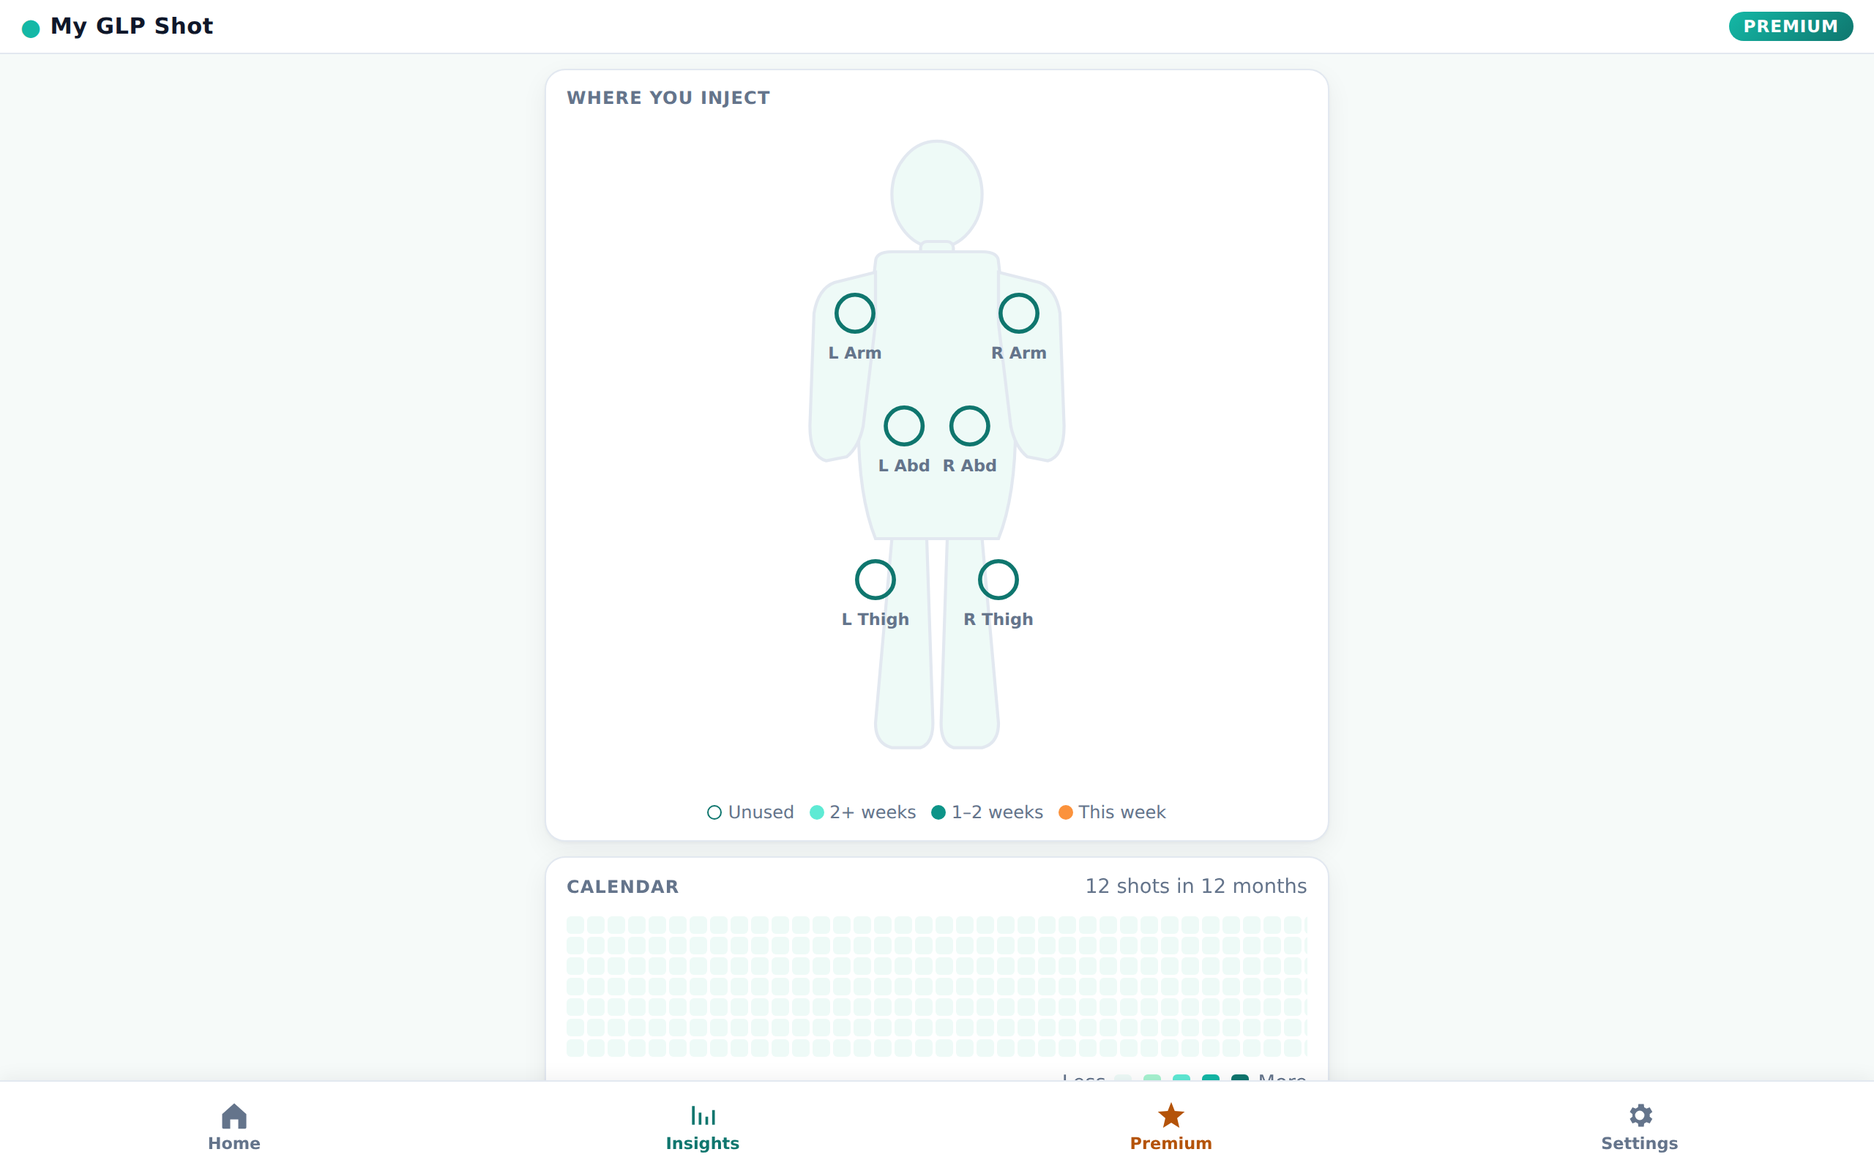
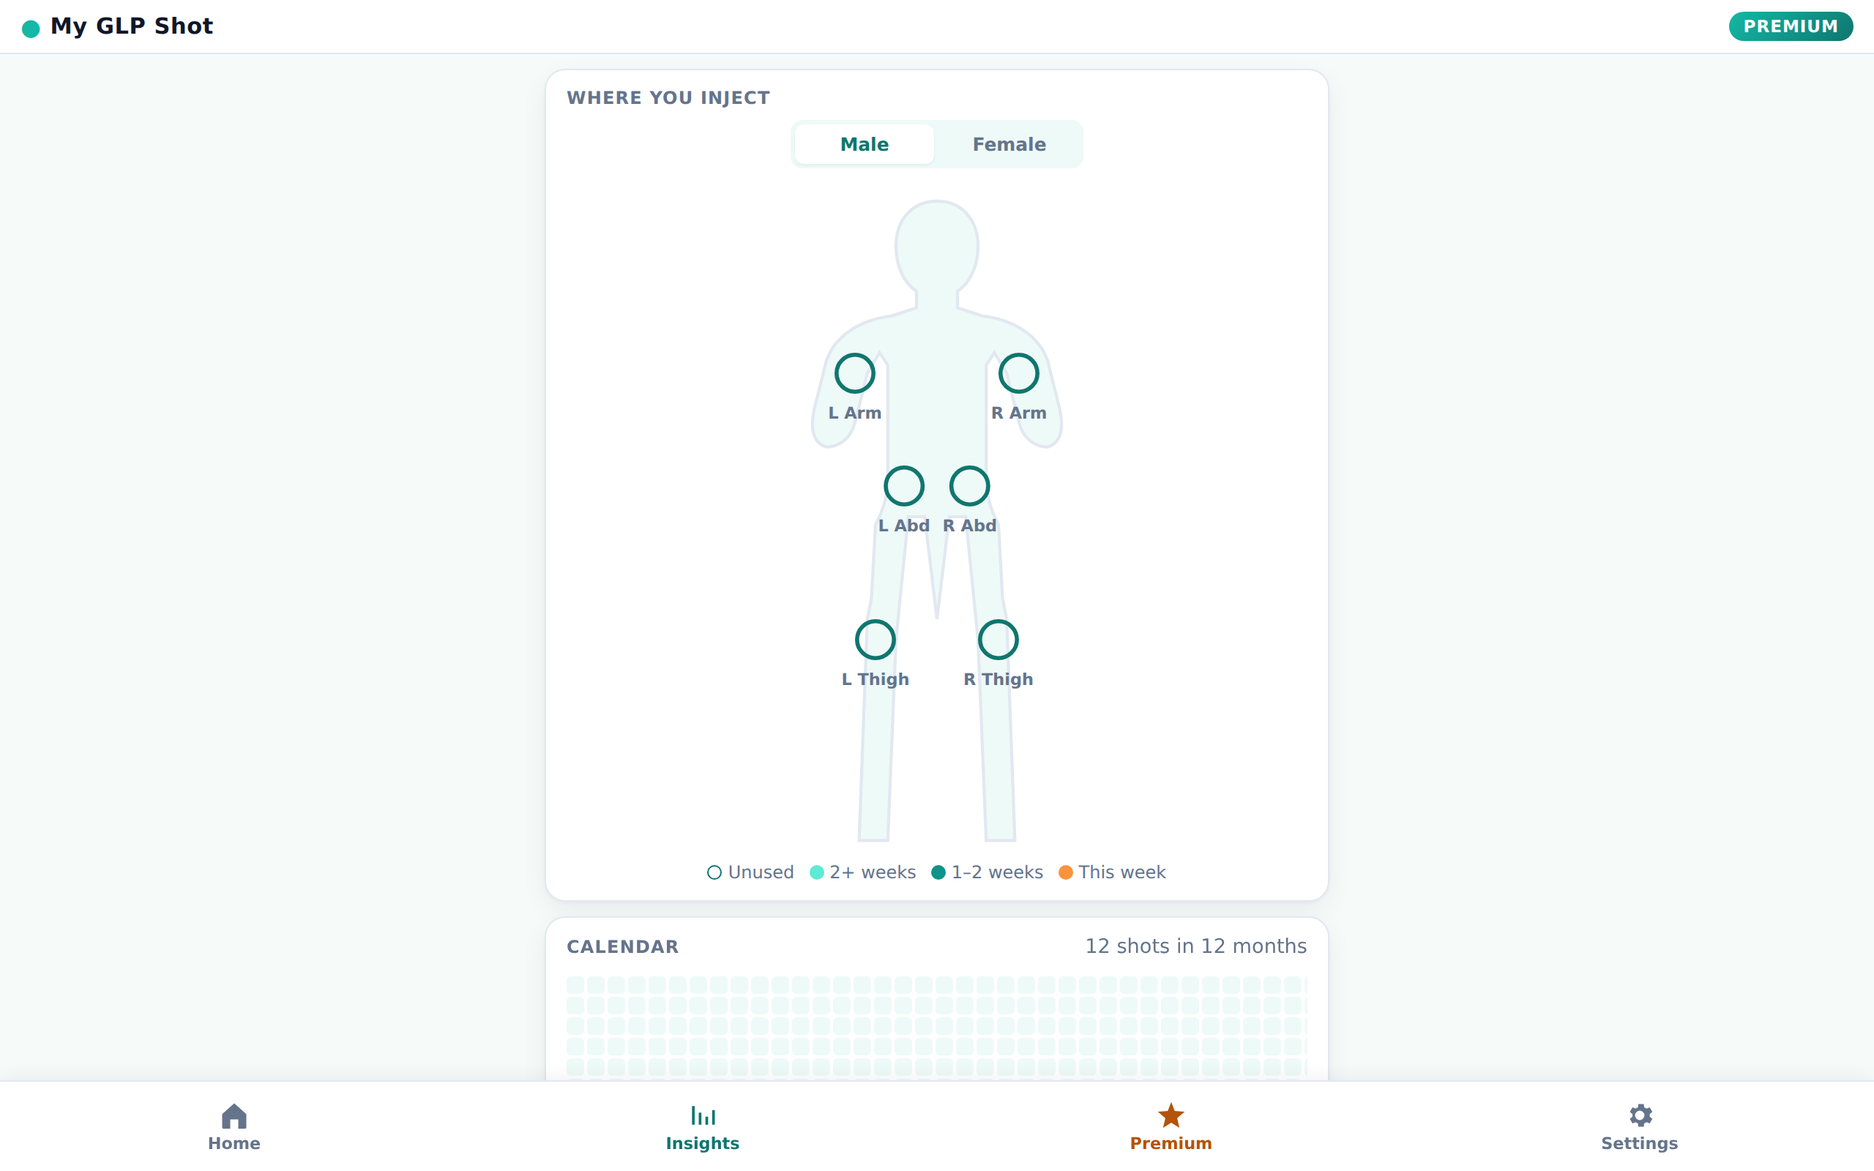
v0.32.0: anatomical male/female body silhouettes + sex toggle on Insights
Replaces the cartoon body outline with two proportioned silhouettes
(male: broad shoulders ~80wide, slim hips, straight legs; female: narrow
shoulders ~64wide, defined waist, wider hips ~76wide, curved legs). Adds
a Male/Female segmented toggle above the diagram on the Insights tab,
persisted via settings.bodySex (defaults to 'male'). All six existing
SITE_POSITIONS dots remain unchanged and verified to land on the body
in both renders. Bumps APP_VERSION + sw.js cache + asset ?v= tags.

diff --git a/web/app/app.js b/web/app/app.js
@@ -6,7 +6,7 @@
 const DB_NAME = 'shotclock';
 // v5 bump: 'expenses' store added so the Spending card can take ad-hoc cost entries (copays, pharmacy fees, etc.) without needing a supply row.
 const DB_VERSION = 5;
-const APP_VERSION = '0.31.0';
+const APP_VERSION = '0.32.0';
 
 // Umami event tracker. Aggregates only — no PII (no email, no IDs). Safe to call before umami loads.
 function track(event, props) {
@@ -18,29 +18,31 @@ function track(event, props) {
 }
 const STORES = { shots: 'shots', weights: 'weights', settings: 'settings', moods: 'moods', supplies: 'supplies' };
 
-// 20 color themes — primary + dark + light + gradient. Applied by overriding CSS custom properties on documentElement.
-// Default 'teal' uses the existing palette.
+// 20 color themes. Each defines a light-mode and dark-mode variant so the app stays readable in both.
+// Tokens overridden: --bronze (primary), --bronze-dk (darker primary, used for hover/active text), --bronze-lt (subtle tint background), --grad (hero/countdown gradient).
+// Light mode: primary mid-saturation, dark = darker primary, tint = very pale primary.
+// Dark mode: primary slightly lighter (for contrast on dark bg), dark = even lighter (used as link/highlighted text on dark surfaces), tint = deep dark version of the hue.
 const THEMES = [
-  { id: 'teal',        name: 'Teal',         primary: '#14b8a6', dark: '#0f766e', light: '#ccfbf1', grad2: '#0d9488' },
-  { id: 'bronze',      name: 'Bronze',       primary: '#c7915b', dark: '#83542e', light: '#f5ebe3', grad2: '#a16d3a' },
-  { id: 'purple',      name: 'Royal Purple', primary: '#8b5cf6', dark: '#6d28d9', light: '#ede9fe', grad2: '#7c3aed' },
-  { id: 'pink',        name: 'Hot Pink',     primary: '#ec4899', dark: '#be185d', light: '#fce7f3', grad2: '#db2777' },
-  { id: 'coral',       name: 'Coral',        primary: '#fb7185', dark: '#be123c', light: '#ffe4e6', grad2: '#e11d48' },
-  { id: 'forest',      name: 'Forest',       primary: '#22c55e', dark: '#15803d', light: '#dcfce7', grad2: '#16a34a' },
-  { id: 'sky',         name: 'Sky Blue',     primary: '#0ea5e9', dark: '#0369a1', light: '#e0f2fe', grad2: '#0284c7' },
-  { id: 'lavender',    name: 'Lavender',     primary: '#a78bfa', dark: '#7c3aed', light: '#f3e8ff', grad2: '#9333ea' },
-  { id: 'sunset',      name: 'Sunset',       primary: '#f97316', dark: '#c2410c', light: '#ffedd5', grad2: '#ea580c' },
-  { id: 'cherry',      name: 'Cherry Red',   primary: '#dc2626', dark: '#991b1b', light: '#fee2e2', grad2: '#b91c1c' },
-  { id: 'mint',        name: 'Mint',         primary: '#34d399', dark: '#047857', light: '#d1fae5', grad2: '#10b981' },
-  { id: 'indigo',      name: 'Indigo',       primary: '#6366f1', dark: '#3730a3', light: '#e0e7ff', grad2: '#4f46e5' },
-  { id: 'rose',        name: 'Rose Gold',    primary: '#f43f5e', dark: '#9f1239', light: '#ffe4e6', grad2: '#e11d48' },
-  { id: 'slate',       name: 'Slate',        primary: '#64748b', dark: '#334155', light: '#f1f5f9', grad2: '#475569' },
-  { id: 'emerald',     name: 'Emerald',      primary: '#10b981', dark: '#065f46', light: '#d1fae5', grad2: '#059669' },
-  { id: 'plum',        name: 'Plum',         primary: '#a855f7', dark: '#6b21a8', light: '#f3e8ff', grad2: '#9333ea' },
-  { id: 'sand',        name: 'Sand',         primary: '#d97706', dark: '#78350f', light: '#fef3c7', grad2: '#b45309' },
-  { id: 'ocean',       name: 'Ocean',        primary: '#2563eb', dark: '#1e3a8a', light: '#dbeafe', grad2: '#1d4ed8' },
-  { id: 'terracotta',  name: 'Terracotta',   primary: '#b45309', dark: '#78350f', light: '#fef3c7', grad2: '#92400e' },
-  { id: 'charcoal',    name: 'Charcoal',     primary: '#374151', dark: '#111827', light: '#f3f4f6', grad2: '#1f2937' },
+  { id: 'teal',        name: 'Teal',         light: { primary: '#14b8a6', dark: '#0f766e', tint: '#ccfbf1', grad2: '#0d9488' }, dark: { primary: '#2dd4bf', dark: '#5eead4', tint: '#134e4a', grad2: '#0d9488' } },
+  { id: 'bronze',      name: 'Bronze',       light: { primary: '#c7915b', dark: '#83542e', tint: '#f5ebe3', grad2: '#a16d3a' }, dark: { primary: '#d4a574', dark: '#e7c8a0', tint: '#3d2a18', grad2: '#a16d3a' } },
+  { id: 'purple',      name: 'Royal Purple', light: { primary: '#8b5cf6', dark: '#6d28d9', tint: '#ede9fe', grad2: '#7c3aed' }, dark: { primary: '#a78bfa', dark: '#c4b5fd', tint: '#2e1065', grad2: '#7c3aed' } },
+  { id: 'pink',        name: 'Hot Pink',     light: { primary: '#ec4899', dark: '#be185d', tint: '#fce7f3', grad2: '#db2777' }, dark: { primary: '#f472b6', dark: '#fbcfe8', tint: '#500724', grad2: '#db2777' } },
+  { id: 'coral',       name: 'Coral',        light: { primary: '#fb7185', dark: '#be123c', tint: '#ffe4e6', grad2: '#e11d48' }, dark: { primary: '#fda4af', dark: '#fecdd3', tint: '#4c0519', grad2: '#e11d48' } },
+  { id: 'forest',      name: 'Forest',       light: { primary: '#22c55e', dark: '#15803d', tint: '#dcfce7', grad2: '#16a34a' }, dark: { primary: '#4ade80', dark: '#86efac', tint: '#14532d', grad2: '#16a34a' } },
+  { id: 'sky',         name: 'Sky Blue',     light: { primary: '#0ea5e9', dark: '#0369a1', tint: '#e0f2fe', grad2: '#0284c7' }, dark: { primary: '#38bdf8', dark: '#7dd3fc', tint: '#0c4a6e', grad2: '#0284c7' } },
+  { id: 'lavender',    name: 'Lavender',     light: { primary: '#a78bfa', dark: '#7c3aed', tint: '#f3e8ff', grad2: '#9333ea' }, dark: { primary: '#c4b5fd', dark: '#ddd6fe', tint: '#3b0764', grad2: '#9333ea' } },
+  { id: 'sunset',      name: 'Sunset',       light: { primary: '#f97316', dark: '#c2410c', tint: '#ffedd5', grad2: '#ea580c' }, dark: { primary: '#fb923c', dark: '#fdba74', tint: '#431407', grad2: '#ea580c' } },
+  { id: 'cherry',      name: 'Cherry Red',   light: { primary: '#dc2626', dark: '#991b1b', tint: '#fee2e2', grad2: '#b91c1c' }, dark: { primary: '#ef4444', dark: '#fca5a5', tint: '#450a0a', grad2: '#b91c1c' } },
+  { id: 'mint',        name: 'Mint',         light: { primary: '#34d399', dark: '#047857', tint: '#d1fae5', grad2: '#10b981' }, dark: { primary: '#6ee7b7', dark: '#a7f3d0', tint: '#022c22', grad2: '#10b981' } },
+  { id: 'indigo',      name: 'Indigo',       light: { primary: '#6366f1', dark: '#3730a3', tint: '#e0e7ff', grad2: '#4f46e5' }, dark: { primary: '#818cf8', dark: '#a5b4fc', tint: '#1e1b4b', grad2: '#4f46e5' } },
+  { id: 'rose',        name: 'Rose Gold',    light: { primary: '#f43f5e', dark: '#9f1239', tint: '#ffe4e6', grad2: '#e11d48' }, dark: { primary: '#fb7185', dark: '#fda4af', tint: '#4c0519', grad2: '#e11d48' } },
+  { id: 'slate',       name: 'Slate',        light: { primary: '#64748b', dark: '#334155', tint: '#f1f5f9', grad2: '#475569' }, dark: { primary: '#94a3b8', dark: '#cbd5e1', tint: '#0f172a', grad2: '#475569' } },
+  { id: 'emerald',     name: 'Emerald',      light: { primary: '#10b981', dark: '#065f46', tint: '#d1fae5', grad2: '#059669' }, dark: { primary: '#34d399', dark: '#6ee7b7', tint: '#022c22', grad2: '#059669' } },
+  { id: 'plum',        name: 'Plum',         light: { primary: '#a855f7', dark: '#6b21a8', tint: '#f3e8ff', grad2: '#9333ea' }, dark: { primary: '#c084fc', dark: '#d8b4fe', tint: '#3b0764', grad2: '#9333ea' } },
+  { id: 'sand',        name: 'Sand',         light: { primary: '#d97706', dark: '#78350f', tint: '#fef3c7', grad2: '#b45309' }, dark: { primary: '#f59e0b', dark: '#fcd34d', tint: '#451a03', grad2: '#b45309' } },
+  { id: 'ocean',       name: 'Ocean',        light: { primary: '#2563eb', dark: '#1e3a8a', tint: '#dbeafe', grad2: '#1d4ed8' }, dark: { primary: '#60a5fa', dark: '#93c5fd', tint: '#1e3a8a', grad2: '#1d4ed8' } },
+  { id: 'terracotta',  name: 'Terracotta',   light: { primary: '#b45309', dark: '#78350f', tint: '#fef3c7', grad2: '#92400e' }, dark: { primary: '#d97706', dark: '#fbbf24', tint: '#451a03', grad2: '#92400e' } },
+  { id: 'charcoal',    name: 'Charcoal',     light: { primary: '#374151', dark: '#111827', tint: '#f3f4f6', grad2: '#1f2937' }, dark: { primary: '#9ca3af', dark: '#d1d5db', tint: '#030712', grad2: '#1f2937' } },
 ];
 
 // 10 mood emoji style sets (5 mood levels each: terrible / bad / ok / good / great).
@@ -76,6 +78,7 @@ const DEFAULT_SETTINGS = {
   syncLastUpdatedAt: null,
   syncAutoPush: true,
   syncDirty: false,
+  bodySex: 'male',
 };
 
 const SIDE_EFFECTS = [
@@ -831,6 +834,7 @@ document.addEventListener('DOMContentLoaded', async () => {
   setupLabUI();
   setupExpenseUI();
   setupWeightRangeButtons();
+  setupBodyToggle();
   renderThemeGrid();
   renderEmojiStyleGrid();
   setupShareUI();
@@ -866,11 +870,8 @@ function applyTheme() {
   if (t === 'system') document.documentElement.removeAttribute('data-theme');
   else document.documentElement.setAttribute('data-theme', t);
   try { localStorage.setItem('theme', t); } catch(e){}
-  const meta = document.querySelector('meta[name="theme-color"]');
-  if (meta) {
-    const dark = t === 'dark' || (t === 'system' && window.matchMedia('(prefers-color-scheme: dark)').matches);
-    meta.setAttribute('content', dark ? '#0b1220' : '#0f766e');
-  }
+  // Re-apply the color theme so its tint flips to the right light/dark variant.
+  if (typeof applyColorTheme === 'function') applyColorTheme(settings.colorTheme || 'teal');
 }
 
 async function getLastWeightUnit() {
@@ -919,6 +920,26 @@ function setupWeightRangeButtons() {
       _weightRangeDays = btn.dataset.range === 'all' ? 'all' : btn.dataset.range;
       track('weight_range_changed', { range: _weightRangeDays });
       await renderWeights();
+    });
+  });
+}
+
+function setupBodyToggle() {
+  // Initialize active state from current settings (default 'male' if unset).
+  const current = (settings.bodySex === 'female') ? 'female' : 'male';
+  document.querySelectorAll('.body-toggle-btn').forEach(b => {
+    b.classList.toggle('active', b.dataset.bodySex === current);
+  });
+  document.querySelectorAll('.body-toggle-btn').forEach(btn => {
+    btn.addEventListener('click', async () => {
+      const sex = btn.dataset.bodySex === 'female' ? 'female' : 'male';
+      if (settings.bodySex === sex) return;
+      settings.bodySex = sex;
+      document.querySelectorAll('.body-toggle-btn').forEach(b => b.classList.toggle('active', b === btn));
+      await saveSettings();
+      markSyncDirty();
+      track('body_sex_changed', { sex });
+      await renderShots(); // re-renders the body diagram via renderBodyDiagram(shots)
     });
   });
 }
@@ -1900,49 +1921,16 @@ function renderBodyDiagram(shots) {
     </g>`;
   }).join('');
 
+  // Anatomical front silhouettes — single continuous outline per sex.
+  // Both fit viewBox 200x320 so SITE_POSITIONS dots land on the body.
+  // Male: ~80-wide shoulder line, slim 64-wide hips, straight legs.
+  // Female: ~64-wide shoulders, defined ~50-wide waist near y=150, ~76-wide hips, gently curved legs.
+  const MALE_PATH = "M100,6 C88,6 80,15 80,28 C80,38 84,46 90,50 L90,58 L78,62 C62,64 50,72 46,84 L40,108 C38,118 40,124 46,126 C52,126 58,122 60,114 L66,90 L72,80 L76,86 L76,140 C76,150 74,156 70,164 L68,200 L66,210 L62,318 L76,318 L80,220 L86,160 L94,160 L100,210 L106,160 L114,160 L120,220 L124,318 L138,318 L134,210 L132,200 L130,164 C126,156 124,150 124,140 L124,86 L128,80 L134,90 L140,114 C142,122 148,126 154,126 C160,124 162,118 160,108 L154,84 C150,72 138,64 122,62 L110,58 L110,50 C116,46 120,38 120,28 C120,15 112,6 100,6 Z";
+  const FEMALE_PATH = "M100,6 C88,6 80,15 80,28 C80,38 84,46 90,50 L90,58 L80,62 C72,64 66,68 64,74 C60,82 56,90 56,100 C56,106 60,108 62,106 L66,80 L70,72 L72,74 C74,100 75,130 75,150 C76,170 70,185 64,200 L62,210 C56,240 54,280 56,318 L72,318 L80,230 L88,180 L96,160 L100,160 L104,160 L112,180 L120,230 L128,318 L144,318 C146,280 144,240 138,210 L136,200 C130,185 124,170 125,150 C125,130 126,100 128,74 L130,72 L134,80 L138,106 C140,108 144,106 144,100 C144,90 140,82 136,74 C134,68 128,64 120,62 L110,58 L110,50 C116,46 120,38 120,28 C120,15 112,6 100,6 Z";
+  const bodyPath = settings.bodySex === 'female' ? FEMALE_PATH : MALE_PATH;
   wrap.innerHTML = `
     <svg class="body-svg" viewBox="0 0 200 320" xmlns="http://www.w3.org/2000/svg" aria-label="Body diagram showing injection sites">
-      <!-- Single continuous outline for cleaner anatomical proportions: head, shoulders, arms hanging at sides, narrow waist, hips, legs, feet. -->
-      <path class="body-shape" d="
-        M 100 8
-        C 86 8 76 18 76 32
-        C 76 44 84 54 92 56
-        L 92 60
-        L 70 65
-        C 56 70 48 82 46 94
-        L 38 142
-        C 36 156 38 162 44 164
-        C 50 166 56 162 58 154
-        L 64 110
-        L 68 96
-        L 72 130
-        C 70 158 70 184 76 198
-        L 82 220
-        L 76 282
-        C 74 294 76 304 82 308
-        C 90 310 96 306 96 296
-        L 98 220
-        L 100 220
-        L 102 220
-        L 104 296
-        C 104 306 110 310 118 308
-        C 124 304 126 294 124 282
-        L 118 220
-        L 124 198
-        C 130 184 130 158 128 130
-        L 132 96
-        L 136 110
-        L 142 154
-        C 144 162 150 166 156 164
-        C 162 162 164 156 162 142
-        L 154 94
-        C 152 82 144 70 130 65
-        L 108 60
-        L 108 56
-        C 116 54 124 44 124 32
-        C 124 18 114 8 100 8
-        Z
-      "/>
+      <path class="body-shape" d="${bodyPath}"/>
       ${sites}
     </svg>
   `;
@@ -2886,16 +2874,30 @@ async function renderLabs() {
 }
 
 // ----- App theme + emoji style (premium cosmetic settings) -----
+function isDarkModeActive() {
+  const attr = document.documentElement.getAttribute('data-theme');
+  if (attr === 'dark') return true;
+  if (attr === 'light') return false;
+  // 'system' or unset → use OS preference
+  return window.matchMedia && window.matchMedia('(prefers-color-scheme: dark)').matches;
+}
+
 function applyColorTheme(themeId) {
   const t = THEMES.find(x => x.id === themeId) || THEMES[0];
+  const variant = isDarkModeActive() ? t.dark : t.light;
   const root = document.documentElement;
-  root.style.setProperty('--bronze', t.primary);
-  root.style.setProperty('--bronze-dk', t.dark);
-  root.style.setProperty('--bronze-lt', t.light);
-  root.style.setProperty('--grad', `linear-gradient(135deg, ${t.primary} 0%, ${t.grad2} 100%)`);
-  // Update the iOS theme-color meta so the address bar matches.
+  root.style.setProperty('--bronze', variant.primary);
+  root.style.setProperty('--bronze-dk', variant.dark);
+  root.style.setProperty('--bronze-lt', variant.tint);
+  root.style.setProperty('--grad', `linear-gradient(135deg, ${variant.primary} 0%, ${variant.grad2} 100%)`);
+  // iOS address-bar tint — always use the light-mode dark color so the bar reads as the brand.
   const meta = document.querySelector('meta[name="theme-color"]');
-  if (meta) meta.content = t.dark;
+  if (meta) meta.content = t.light.dark;
+}
+
+// Re-apply theme whenever light/dark mode flips so tints stay correct.
+function reapplyCurrentColorTheme() {
+  applyColorTheme(settings.colorTheme || 'teal');
 }
 
 function applyMoodStyle(styleId) {

diff --git a/web/app/styles.css b/web/app/styles.css
@@ -174,6 +174,12 @@ canvas{width:100% !important;height:auto !important;max-height:200px}
 .range-btn.active{background:var(--surface);color:var(--bronze-dk);box-shadow:0 1px 2px rgba(0,0,0,.06)}
 [data-theme="dark"] .range-btn.active{background:var(--bronze-dk);color:#fff}
 
+/* Body type toggle (Male / Female) above injection-site diagram */
+.body-toggle{display:flex;gap:4px;background:var(--surface-alt);padding:3px;border-radius:8px;margin:6px auto 8px;max-width:200px}
+.body-toggle-btn{flex:1;background:transparent;border:0;color:var(--muted);font:inherit;font-size:.78rem;font-weight:600;padding:6px 0;cursor:pointer;border-radius:6px;transition:background .15s,color .15s}
+.body-toggle-btn.active{background:var(--surface);color:var(--bronze-dk);box-shadow:0 1px 2px rgba(0,0,0,.06)}
+[data-theme="dark"] .body-toggle-btn.active{background:var(--bronze-dk);color:#fff}
+
 .expense-list{list-style:none;padding:0;margin:8px 0 0}
 .expense-list li{padding:10px 12px;border:1px solid var(--line);border-radius:10px;margin:6px 0;cursor:pointer;background:var(--surface)}
 .expense-list li:hover{background:var(--surface-alt)}
@@ -260,13 +266,19 @@ canvas{width:100% !important;height:auto !important;max-height:200px}
 .empty-illus{display:inline-block;font-size:1.4rem;opacity:.5;margin-bottom:4px}
 
 /* Badges */
-.badges-list{display:flex;flex-wrap:wrap;gap:8px}
-.badge{background:var(--surface-alt);border:1px solid var(--line);border-radius:14px;padding:6px 10px;font-size:.78rem;display:flex;align-items:center;gap:6px;animation:badge-pop .4s ease-out}
-.badge.unlocked{background:linear-gradient(135deg,var(--bronze-lt),var(--surface));border-color:var(--bronze)}
-.badge .badge-icon{font-size:1rem}
-.badge .badge-label{color:var(--ink);font-weight:600}
-.badge.locked{opacity:.4}
-.badge.locked .badge-label{color:var(--muted);font-weight:400}
+.badges-list{display:flex;flex-wrap:wrap;gap:10px}
+.badge{background:var(--surface);border:1.5px solid var(--line);border-radius:999px;padding:8px 14px 8px 12px;font-size:.82rem;display:flex;align-items:center;gap:8px;animation:badge-pop .4s ease-out;transition:transform .12s,box-shadow .15s}
+.badge.unlocked{background:linear-gradient(135deg,var(--bronze) 0%,var(--bronze-dk) 100%);border-color:transparent;color:#fff;box-shadow:0 2px 6px rgba(15,23,42,.10),0 0 0 1px rgba(255,255,255,.06) inset}
+.badge.unlocked .badge-label,
+.badge.unlocked .badge-icon{color:#fff}
+.badge .badge-icon{font-size:1.2rem;line-height:1;filter:drop-shadow(0 1px 1px rgba(0,0,0,.15))}
+.badge .badge-label{color:var(--ink);font-weight:600;letter-spacing:.1px}
+.badge.locked{background:var(--surface);border-color:var(--line);opacity:.6}
+.badge.locked .badge-icon{filter:grayscale(1);opacity:.55}
+.badge.locked .badge-label{color:var(--muted);font-weight:500}
+.badge.unlocked:hover{transform:translateY(-1px);box-shadow:0 3px 10px rgba(15,23,42,.14)}
+[data-theme="dark"] .badge{background:var(--surface);border-color:var(--line)}
+[data-theme="dark"] .badge.unlocked{box-shadow:0 0 0 1px rgba(255,255,255,.08) inset,0 0 12px rgba(20,184,166,.18)}
 @keyframes badge-pop{0%{transform:scale(.7);opacity:0}100%{transform:scale(1);opacity:1}}
 
 /* Color-coded shot rows by dose */
@@ -320,7 +332,8 @@ canvas{width:100% !important;height:auto !important;max-height:200px}
 
 /* Premium lock pill */
 .lock-pill{display:inline-block;background:linear-gradient(135deg,var(--bronze) 0%,var(--bronze-dk) 100%);color:#fff;font-size:.62rem;padding:2px 8px;border-radius:999px;font-weight:700;letter-spacing:.5px;margin-left:6px;vertical-align:middle;text-transform:uppercase}
-.lock-pill.unlocked{background:#10b981}
+/* Darkened from #10b981 (emerald-500, ~2.54:1 with white text) to #047857 (emerald-700, ~5.0:1) for WCAG AA. */
+.lock-pill.unlocked{background:#047857}
 .lock-pill.unlocked::before{content:'✓ '}
 
 /* Supply list */

diff --git a/web/app/index.html b/web/app/index.html
@@ -17,7 +17,7 @@
 <link rel="icon" type="image/png" sizes="192x192" href="icons/icon-192.png">
 <link rel="icon" type="image/png" sizes="512x512" href="icons/icon-512.png">
 <link rel="apple-touch-icon" sizes="180x180" href="icons/apple-touch-icon.png">
-<link rel="stylesheet" href="styles.css?v=31">
+<link rel="stylesheet" href="styles.css?v=32">
 <script>
 (function(){
   // Apply saved theme synchronously to avoid flash. Settings live in IndexedDB; theme also mirrored to localStorage for fast read.
@@ -195,6 +195,10 @@
 
   <section class="card" data-tab="insights">
     <div class="card-head"><h2>Where you inject</h2><span id="site-suggest-label" class="muted small"></span></div>
+    <div class="body-toggle" role="group" aria-label="Body type">
+      <button class="body-toggle-btn" type="button" data-body-sex="male">Male</button>
+      <button class="body-toggle-btn" type="button" data-body-sex="female">Female</button>
+    </div>
     <div id="body-diagram-wrap" class="body-diagram-wrap"></div>
     <div id="site-legend" class="site-legend"></div>
   </section>
@@ -770,6 +774,6 @@
 </nav>
 
 <script src="lib/chart.min.js"></script>
-<script src="app.js?v=31"></script>
+<script src="app.js?v=32"></script>
 </body>
 </html>

diff --git a/web/app/sw.js b/web/app/sw.js
@@ -1,5 +1,5 @@
 // My GLP Shot service worker — network-first for app shell so updates are picked up on every visit; cache fallback for offline.
-const CACHE = 'mglp-v0.31.0';
+const CACHE = 'mglp-v0.32.0';
 const SHELL = [
   './',
   'index.html',
